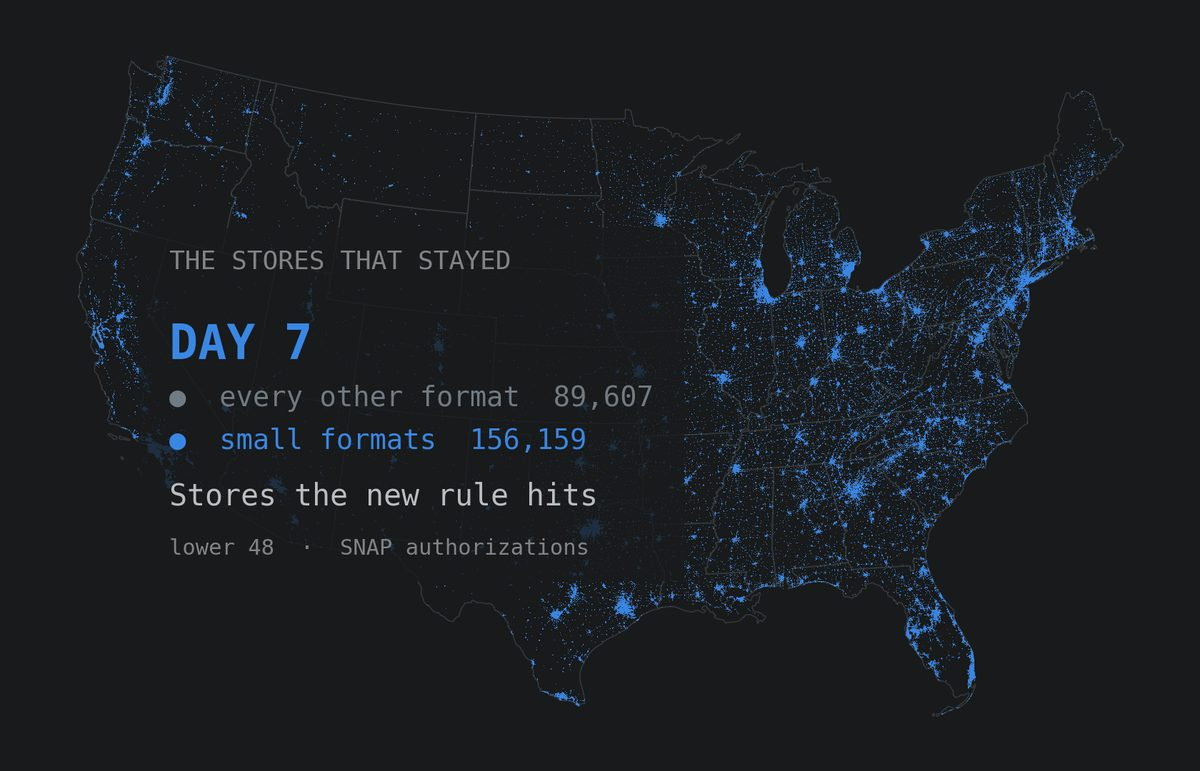
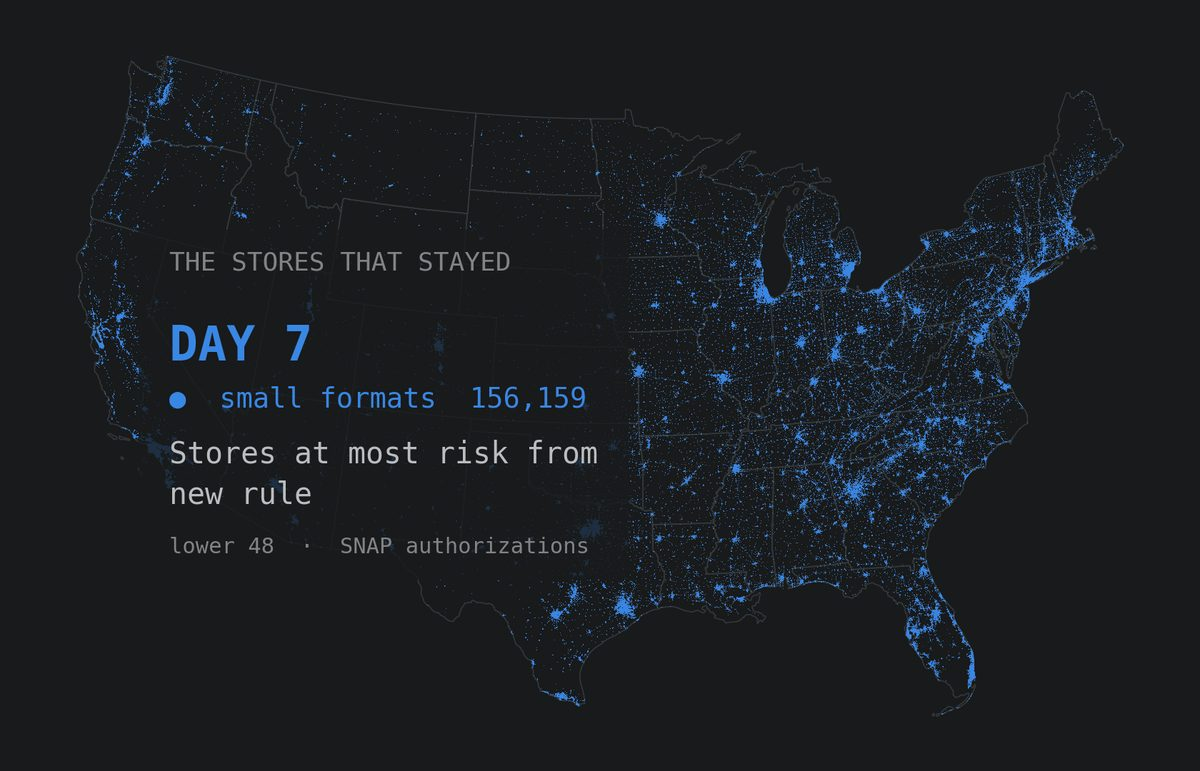
Stop Day 7 offering a share that contradicts USDA's, and attribute the 71%
Day 7's hero keyed both layers — 156,159 small formats against 89,607 of
everything else — which lets any reader derive 63.5% and read it against the
71% on the card. That looks like the series contradicting itself when it is
really two different measurements.

The 71% cannot be rebuilt from this file. USDA's universe is 269,217 authorized
retailers against 249,083 here, since theirs includes Alaska, Hawaii and the
territories, and the impact analysis never publishes the store types behind the
share. No format set here reaches it: the four small formats give 63.4% and
adding dollar stores overshoots to 78.4%.

So the hero now keys one layer and leaves the backdrop as uncounted context. It
claims only what it can source — where these stores are.

Post 7 had the same problem in prose. It read "Around 71% of all SNAP retailers
are the small formats most exposed: convenience stores, small grocers, and the
combination stores that include dollar stores" — stating the share as ours and
naming a category list that is our guess at USDA's, not USDA's own. It now
attributes the figure, drops the invented list, and the limits say plainly that
we cannot reproduce it and what the nearest equivalent here would be.

Hero caption is now "Stores at most risk from new rule".

diff --git a/src/analysis/export_post7.py b/src/analysis/export_post7.py
@@ -146,9 +146,8 @@ The four categories are {n['category_names']}. The variety requirement more than
 
 USDA has published its own forecast, in an impact analysis filed with the rule. **{im['stores_needing_varieties']:,} stores** have to add varieties to keep selling to SNAP households. Of those, the agency expects about **{im['stores_denied']:,} to be denied** — a denial rate of {im['new_denial_rate_pct']}%, up from the {im['baseline_denial_rate_pct']}% and roughly {im['baseline_annual_denials']:,} denials a normal year produces.
 
-That is not the same as {im['stores_denied']:,} stores gone, and it is worth being precise about it. USDA expects most of those stores to buy the stock and apply again: it budgets for {im['reauthorizations_expected']:,} reauthorizations. Its own projected net loss is about **{im['net_permanent_loss']:,} stores**. Around **{im['small_share_of_retailers_pct']}%** of all SNAP retailers are the
-small formats most exposed: convenience stores, small grocers, and the combination stores that include
-dollar stores.
+That is not the same as {im['stores_denied']:,} stores gone, and it is worth being precise about it. USDA expects most of those stores to buy the stock and apply again: it budgets for {im['reauthorizations_expected']:,} reauthorizations. Its own projected net loss is about **{im['net_permanent_loss']:,} stores**. By USDA's count, **{im['small_share_of_retailers_pct']}%** of SNAP retailers are the small
+formats most exposed to the new standard.
 
 ## Why USDA thinks that is acceptable
 
@@ -255,6 +254,12 @@ markets are the ones never designed to sell a week of groceries, then the questi
 money a household gets. It is how food reaches people who have the fewest ways to go and get it.
 
 ## Limits
+
+**USDA's 71% is USDA's, and we cannot rebuild it.** The impact analysis does not publish the store
+types behind that share, and its universe is 269,217 authorized retailers against the 249,083 in this
+file — a different count, since theirs includes Alaska, Hawaii and the territories. On the store types
+here the nearest equivalent is 63%, and adding dollar stores overshoots to 78%. It is quoted as the
+agency's own reasoning, not as a measurement of ours.
 
 **The Thrifty Food Plan question is a question, not a finding.** This data cannot see inside a store, so no
 estimate is made of how much of the plan's basket is stocked anywhere. Measuring that needs shelf-level

diff --git a/src/analysis/hero.py b/src/analysis/hero.py
@@ -299,19 +299,31 @@ def main():
                "Chain share of all SNAP stores: 39% to 50%")
 
     if want is None or 7 in want:
-        # The formats the new stocking standard falls hardest on: the ones
-        # carrying the least stock today. No share is quoted on the image — the
-        # RIA does not publish the category list behind its own 71%.
+        # Only ONE count is keyed here, deliberately.
+        #
+        # Day 7's card quotes USDA's "71% of stores, 11% of spending" from the
+        # rule's impact analysis. That is USDA's figure, on USDA's categories,
+        # over USDA's universe of 269,217 authorized retailers. Ours is 249,083
+        # — a different denominator, since theirs includes Alaska, Hawaii and
+        # the territories — and no format set here reaches 71% anyway: the four
+        # small formats give 63.4%, and adding dollar stores overshoots to
+        # 78.4%. The RIA does not publish the category list behind its number.
+        #
+        # Keying both layers would let a reader derive 63.4% off the image and
+        # read it against the 71% on the card, which would look like the series
+        # contradicting itself when it is really two different measurements. So
+        # the backdrop is drawn as context and left uncounted, and the frame
+        # claims only what it can source: where these stores are.
         SMALL = ("p.format IN ('Convenience Store','Grocery (Small)',"
                  "'Grocery (Medium)','Combination Grocery/Other')")
-        rest, nr = points(con, f"NOT ({SMALL})", 2025)
+        rest, _ = points(con, f"NOT ({SMALL})", 2025)
         small, ns = points(con, SMALL, 2025)
         render(OUT / "day-7.png", 7,
-               [{"xy": rest, "color": MUTED, "size": 0.5, "alpha": 0.45,
-                 "label": f"every other format  {nr:,}"},
+               [{"xy": rest, "color": MUTED, "size": 0.5, "alpha": 0.4},
                 {"xy": small, "color": S[0], "size": 0.6,
                  "label": f"small formats  {ns:,}"}],
-               "Stores the new rule hits")
+               "Stores at most risk from new rule")
+
 
 if __name__ == "__main__":
     main()

diff --git a/src/analysis/build_post7.py b/src/analysis/build_post7.py
@@ -120,10 +120,9 @@ denial rate of {im['new_denial_rate_pct']}%, up from the {im['baseline_denial_ra
 <p>That is not the same as {im['stores_denied']:,} stores gone, and it is worth being precise about it.
 USDA expects most of those stores to buy the stock and apply again: it budgets for
 {im['reauthorizations_expected']:,} reauthorizations. Its own projected net loss is about
-<strong>{im['net_permanent_loss']:,} stores</strong>. Around
-<strong>{im['small_share_of_retailers_pct']}%</strong> of all SNAP
-retailers are the small formats most exposed: convenience stores, small grocers, and the combination
-stores that include dollar stores.</p>
+<strong>{im['net_permanent_loss']:,} stores</strong>. By USDA's count,
+<strong>{im['small_share_of_retailers_pct']}%</strong> of SNAP retailers are the small formats most
+exposed to the new standard.</p>
 
 <h2>Why USDA thinks that is acceptable</h2>
 
@@ -240,6 +239,11 @@ money a household gets. It is how food reaches people who have the fewest ways t
 
 <div class="caveat">
 <h3>Limits</h3>
+<p><strong>USDA's 71% is USDA's, and we cannot rebuild it.</strong> The impact analysis does not
+publish the store types behind that share, and its universe is 269,217 authorized retailers against the
+249,083 in this file — a different count, since theirs includes Alaska, Hawaii and the territories. On
+the store types here the nearest equivalent is 63%, and adding dollar stores overshoots to 78%. It is
+quoted as the agency's own reasoning, not as a measurement of ours.</p>
 <p><strong>The Thrifty Food Plan question is a question, not a finding.</strong> This data cannot see
 inside a store, so no estimate is made of how much of the plan's basket is stocked anywhere. Measuring
 that needs shelf-level audit data — the kind collected by in-store surveys such as NEMS-S, not by an
